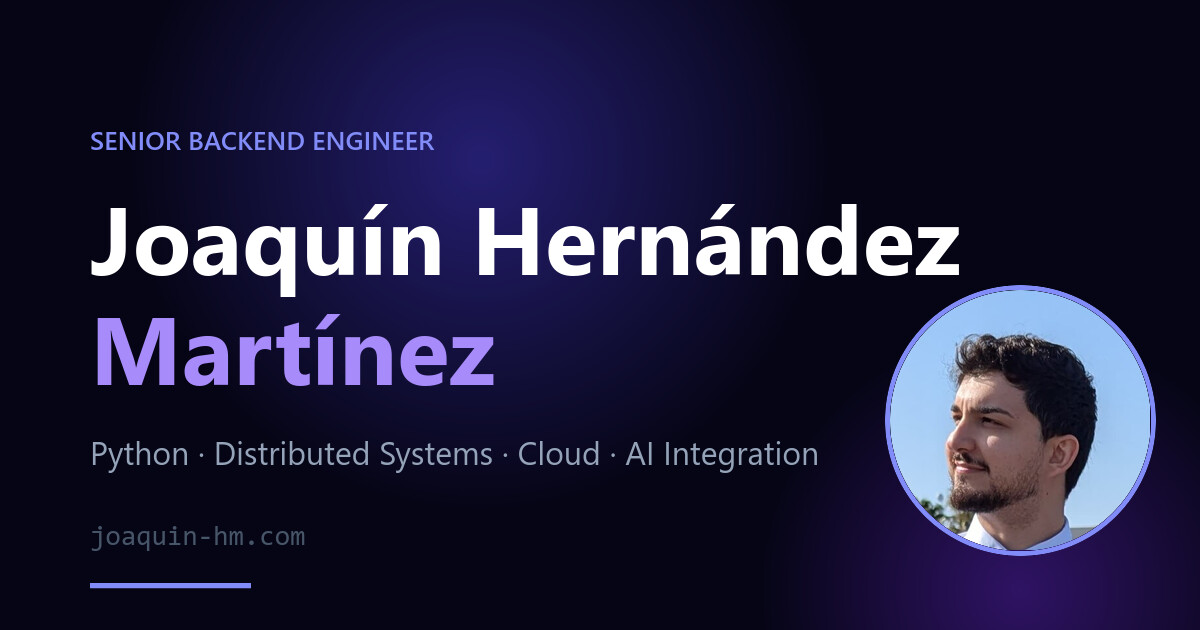
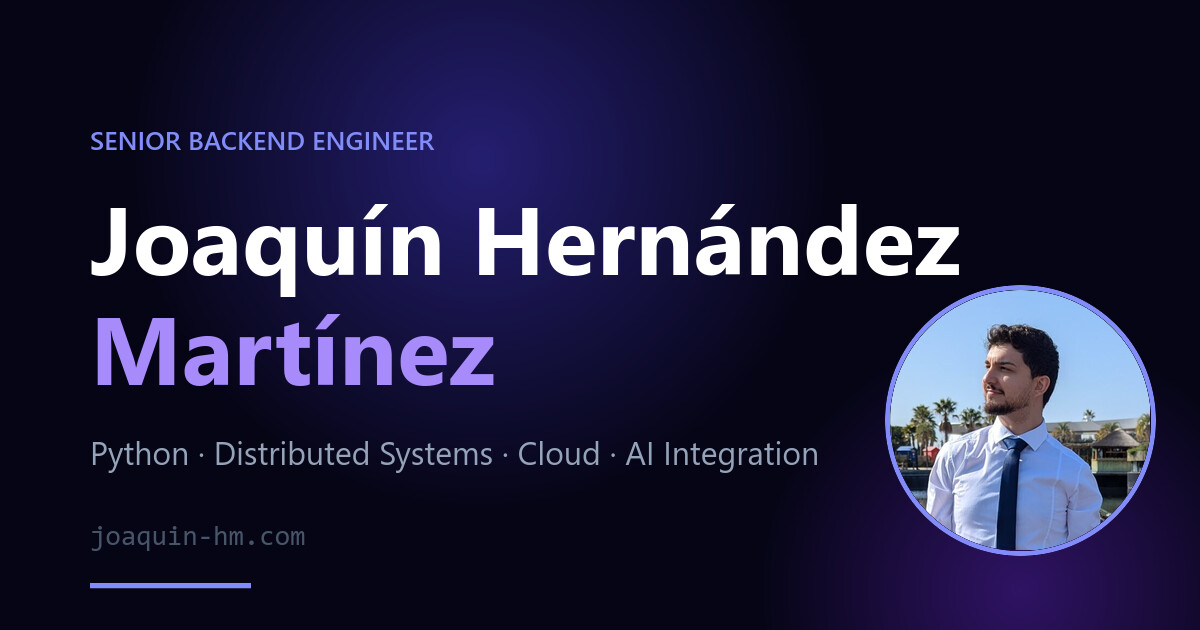
Update hero and about styles overall, and images

Changed region(s): [[0.74, 0.5127, 0.9558, 0.8746]]

diff --git a/src/sections/Hero.tsx b/src/sections/Hero.tsx
@@ -42,10 +42,16 @@ function Typewriter({ text, speed = 45 }: { text: string; speed?: number }) {
     return () => clearInterval(id)
   }, [text, speed])
 
+  /* The part not typed yet stays in the flow, invisible. The paragraph is laid
+     out at its FINAL size from the first frame, so the lines never re-wrap and
+     the hero's vertical centring never shifts — everything around the tagline
+     (portrait, stats, buttons) stays put while the text types. The text still
+     exists exactly once in the DOM. */
   return (
     <span>
       {displayed}
       {!done && <span className="typewriter-cursor" />}
+      <span className="invisible" aria-hidden="true">{text.slice(displayed.length)}</span>
     </span>
   )
 }
@@ -99,32 +105,59 @@ export function Hero() {
           {NAME_TAIL}
         </span>
       </h1>
-      <p className="text-slate-400 max-w-lg text-base sm:text-lg mb-10">
+      <p className="text-slate-400 max-w-3xl text-base sm:text-lg mb-6">
         <Typewriter key={SITE.tagline} text={SITE.tagline} />
       </p>
 
-      <div className="flex flex-wrap justify-center gap-6 mb-10">
-        {STATS.map(s => (
-          <div key={s.label} className="text-center">
-            <p className="text-2xl font-bold text-indigo-400">{s.value}</p>
-            <p className="text-xs text-slate-500 mt-1">{s.label}</p>
+      {/* Stats and buttons keep their own layout; the portrait takes the space this
+          row used to leave empty on its left, which also nudges them right of
+          centre. On phones there is no width to share, so it stacks above them. */}
+      <div className="flex flex-col sm:flex-row items-center justify-center gap-8 sm:gap-12 w-full">
+        {/* Frame: a tilted ellipse that slowly changes shape, with a second, more
+            steeply tilted outline offset behind it and a soft glow. The frame is
+            rotated but the photo inside is counter-rotated, so it is the window
+            that is diagonal and the person stays upright. */}
+        <div className="hero-portrait relative shrink-0 w-32 h-[170px] sm:w-36 sm:h-48 lg:w-44 lg:h-[235px]">
+          <div className="hero-portrait-glow absolute -inset-4 rounded-full bg-gradient-to-br from-indigo-500/50 to-violet-500/40 blur-2xl pointer-events-none" />
+          <div className="hero-frame-outline absolute inset-0 border border-indigo-400/50" aria-hidden="true" />
+          <div className="hero-frame absolute inset-0 overflow-hidden ring-2 ring-indigo-400/40 shadow-xl shadow-indigo-500/20">
+            <img
+              src="/me-hero.jpg"
+              alt={`Portrait of ${SITE.name}`}
+              width={176}
+              height={235}
+              fetchPriority="high"
+              decoding="async"
+              className="hero-frame-img w-full h-full object-cover object-top"
+            />
           </div>
-        ))}
-      </div>
+        </div>
 
-      <div className="flex gap-3 flex-wrap justify-center w-full max-w-sm sm:max-w-none">
-        <button onClick={() => scrollTo('projects')}
-          className="px-6 py-3 rounded-lg bg-indigo-600 hover:bg-indigo-500 text-white text-sm font-medium transition-colors">
-          View Projects
-        </button>
-        <Link to="/cv"
-          className="px-6 py-3 rounded-lg border border-white/20 hover:border-indigo-500 text-slate-300 hover:text-white text-sm font-medium transition-colors">
-          View CV
-        </Link>
-        <button onClick={() => scrollTo('contact')}
-          className="px-6 py-3 rounded-lg border border-white/10 hover:border-white/30 text-slate-400 hover:text-white text-sm font-medium transition-colors">
-          Contact
-        </button>
+        <div className="flex flex-col items-center">
+          <div className="flex flex-wrap justify-center gap-8 mb-6">
+            {STATS.map(s => (
+              <div key={s.label} className="text-center">
+                <p className="text-4xl font-bold text-indigo-400">{s.value}</p>
+                <p className="text-sm text-slate-500 mt-1">{s.label}</p>
+              </div>
+            ))}
+          </div>
+
+          <div className="flex gap-3 flex-wrap justify-center w-full max-w-sm sm:max-w-none">
+            <button onClick={() => scrollTo('projects')}
+              className="px-6 py-3 rounded-lg bg-indigo-600 hover:bg-indigo-500 text-white text-sm font-medium transition-colors">
+              View Projects
+            </button>
+            <Link to="/cv"
+              className="px-6 py-3 rounded-lg border border-white/20 hover:border-indigo-500 text-slate-300 hover:text-white text-sm font-medium transition-colors">
+              View CV
+            </Link>
+            <button onClick={() => scrollTo('contact')}
+              className="px-6 py-3 rounded-lg border border-white/10 hover:border-white/30 text-slate-400 hover:text-white text-sm font-medium transition-colors">
+              Contact
+            </button>
+          </div>
+        </div>
       </div>
     </section>
   )

diff --git a/src/index.css b/src/index.css
@@ -12,9 +12,49 @@
   width: 2px;
   height: 1em;
   background: currentColor;
-  margin-left: 2px;
+  /* Net zero width (2px + 2px of margin, minus 4px): the cursor must not push
+     the invisible remainder of the line and re-wrap it as it moves. */
+  margin: 0 -4px 0 2px;
   vertical-align: text-bottom;
   animation: blink 1s step-end infinite;
+}
+
+/* Hero portrait — a slow float, with its glow breathing out of phase so the two
+   never look mechanically locked. Both are transform/opacity only (compositor
+   work), and both are switched off under prefers-reduced-motion below. */
+@keyframes hero-portrait-float {
+  0%, 100% { transform: translateY(0); }
+  50%       { transform: translateY(-8px); }
+}
+@keyframes hero-portrait-glow {
+  0%, 100% { opacity: 0.35; transform: scale(1); }
+  50%       { opacity: 0.7;  transform: scale(1.12); }
+}
+/* The frame itself: a tilted ellipse, with a second outline tilted the other way
+   that slowly sways behind it. The photo is counter-rotated (and scaled so it
+   still covers the rotated window), keeping the person upright. */
+@keyframes hero-frame-sway {
+  0%, 100% { transform: translate(14px, 6px) rotate(24deg) scale(1.06); }
+  50%       { transform: translate(14px, 6px) rotate(32deg) scale(1.06); }
+}
+.hero-portrait {
+  animation: hero-portrait-float 6s ease-in-out infinite;
+}
+.hero-frame {
+  transform: rotate(-18deg);
+  border-radius: 50%;
+}
+.hero-frame-img {
+  transform: rotate(18deg) scale(1.25);
+}
+.hero-frame-outline {
+  transform: translate(14px, 6px) rotate(24deg) scale(1.06);
+  border-radius: 50%;
+  animation: hero-frame-sway 12s ease-in-out infinite;
+}
+.hero-portrait-glow {
+  animation: hero-portrait-glow 6s ease-in-out infinite;
+  animation-delay: -1.5s;
 }
 
 /* First experience card subtle highlight — 3 pulses, stays glowing on the third */
@@ -173,7 +213,11 @@ html, body {
   .project-dev-badge,
   .blog-live-link,
   .teaching-sparkle,
-  .typewriter-cursor {
+  .typewriter-cursor,
+  .hero-portrait,
+  .hero-portrait-glow,
+  .hero-frame,
+  .hero-frame-outline {
     animation: none !important;
   }
 

diff --git a/src/sections/About.tsx b/src/sections/About.tsx
@@ -93,7 +93,23 @@ export function About() {
 
         {/* Bio */}
         <div>
-          <h3 className="text-xl font-semibold text-white mb-3">{SITE.name}</h3>
+          {/* A small round portrait beside the name: it puts a face to the text
+              without adding a block to the section, so the two-column layout
+              and its height are unchanged. The name stays on one line, so its
+              size (and the portrait's) steps down where the column is narrowest
+              (sm–md, when the section first splits into two columns). */}
+          <div className="flex items-center gap-3 mb-3">
+            <img
+              src="/me.jpg"
+              alt={`Portrait of ${SITE.name}`}
+              width={64}
+              height={64}
+              loading="lazy"
+              decoding="async"
+              className="w-14 h-14 sm:w-10 sm:h-10 md:w-14 md:h-14 xl:w-16 xl:h-16 shrink-0 rounded-full object-cover object-[50%_30%] ring-2 ring-indigo-500/40 shadow-lg shadow-indigo-500/20"
+            />
+            <h3 className="min-[360px]:whitespace-nowrap text-[1.0625rem] min-[375px]:text-[1.125rem] sm:text-[0.96875rem] md:text-[1.125rem] lg:text-[1.375rem] xl:text-[1.5rem] font-semibold text-white">{SITE.name}</h3>
+          </div>
           <p className="text-slate-400 leading-relaxed text-justify">
             <K>Senior Python engineer</K> with <K>{YEARS_EXP}+ years</K> building{' '}
             <K>back-end services</K>, <K>REST APIs</K>, and{' '}

diff --git a/public/_shot.html b/public/_shot.html
@@ -1,0 +1,6 @@
+<!doctype html><body style="margin:0;background:#000;color:#fff"><pre id=o style="position:fixed;top:0;left:0;z-index:9"></pre><iframe id=f style="border:0;height:900px"></iframe>
+<script>
+const w=location.hash.slice(1)||'800';const f=document.getElementById('f');f.style.width=w+'px';f.src='/';
+f.onload=()=>setTimeout(()=>{const d=f.contentDocument;const h=[...d.querySelectorAll('h3')].find(e=>e.textContent.includes('Hern'));const col=h.parentElement.parentElement.getBoundingClientRect();const r=h.getBoundingClientRect();const fs=getComputedStyle(h).fontSize;
+document.getElementById('o').textContent=`IW=${f.contentWindow.innerWidth} fs=${fs} h3right=${Math.round(r.right)} colright=${Math.round(col.right)} h=${Math.round(r.height)} fits=${r.right<=col.right+0.5}`;},1500)
+</script>

diff --git a/src/data/site.ts b/src/data/site.ts
@@ -9,7 +9,7 @@ export const SITE = {
   role:      ['Senior Backend Engineer', 'Leader and Architect', 'Fullstack Developer'],
   tagline:   `Building reliable back-end services, APIs, and cloud infrastructure — ${YEARS_EXP}+ years turning complex requirements into production-ready systems. Now with AI expertise`,
   email:     'proyecto_noether@outlook.com',
-  photo:     '/photo.png',
+  photo:     '/me.jpg',
   location:  'Albacete, Spain',
   fullAddress: 'Albacete, Spain',
   locationUrl: 'https://maps.app.goo.gl/DLYp7yCkraK8mQS69',
